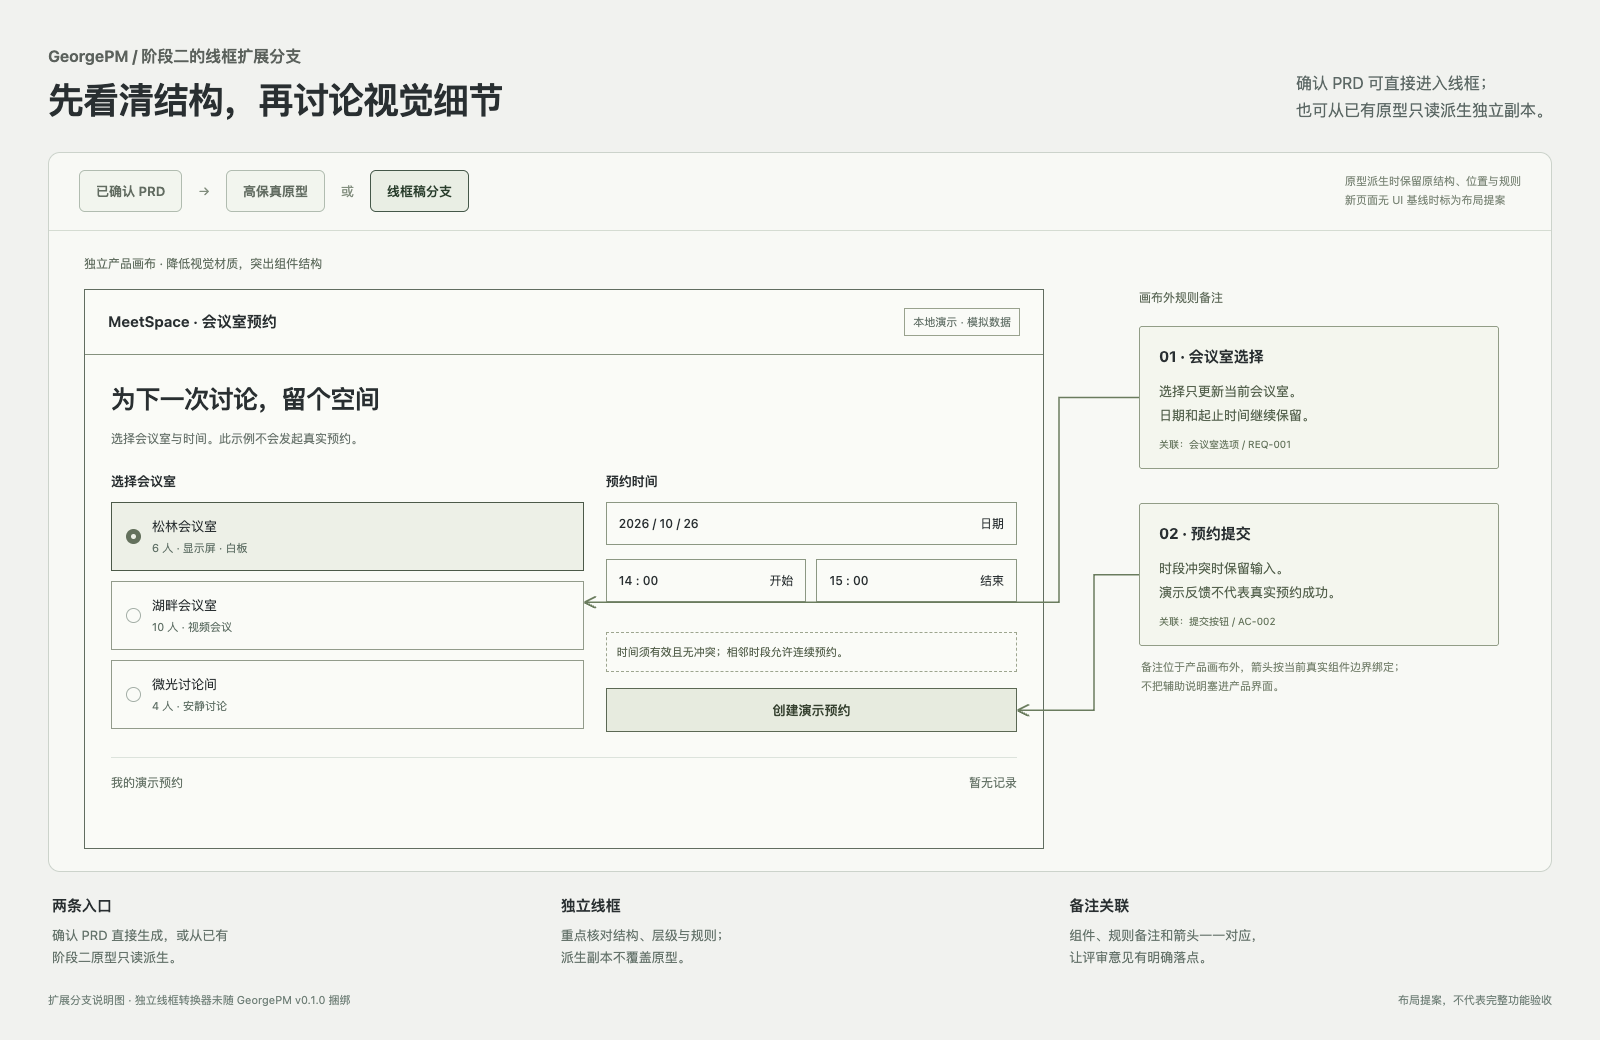
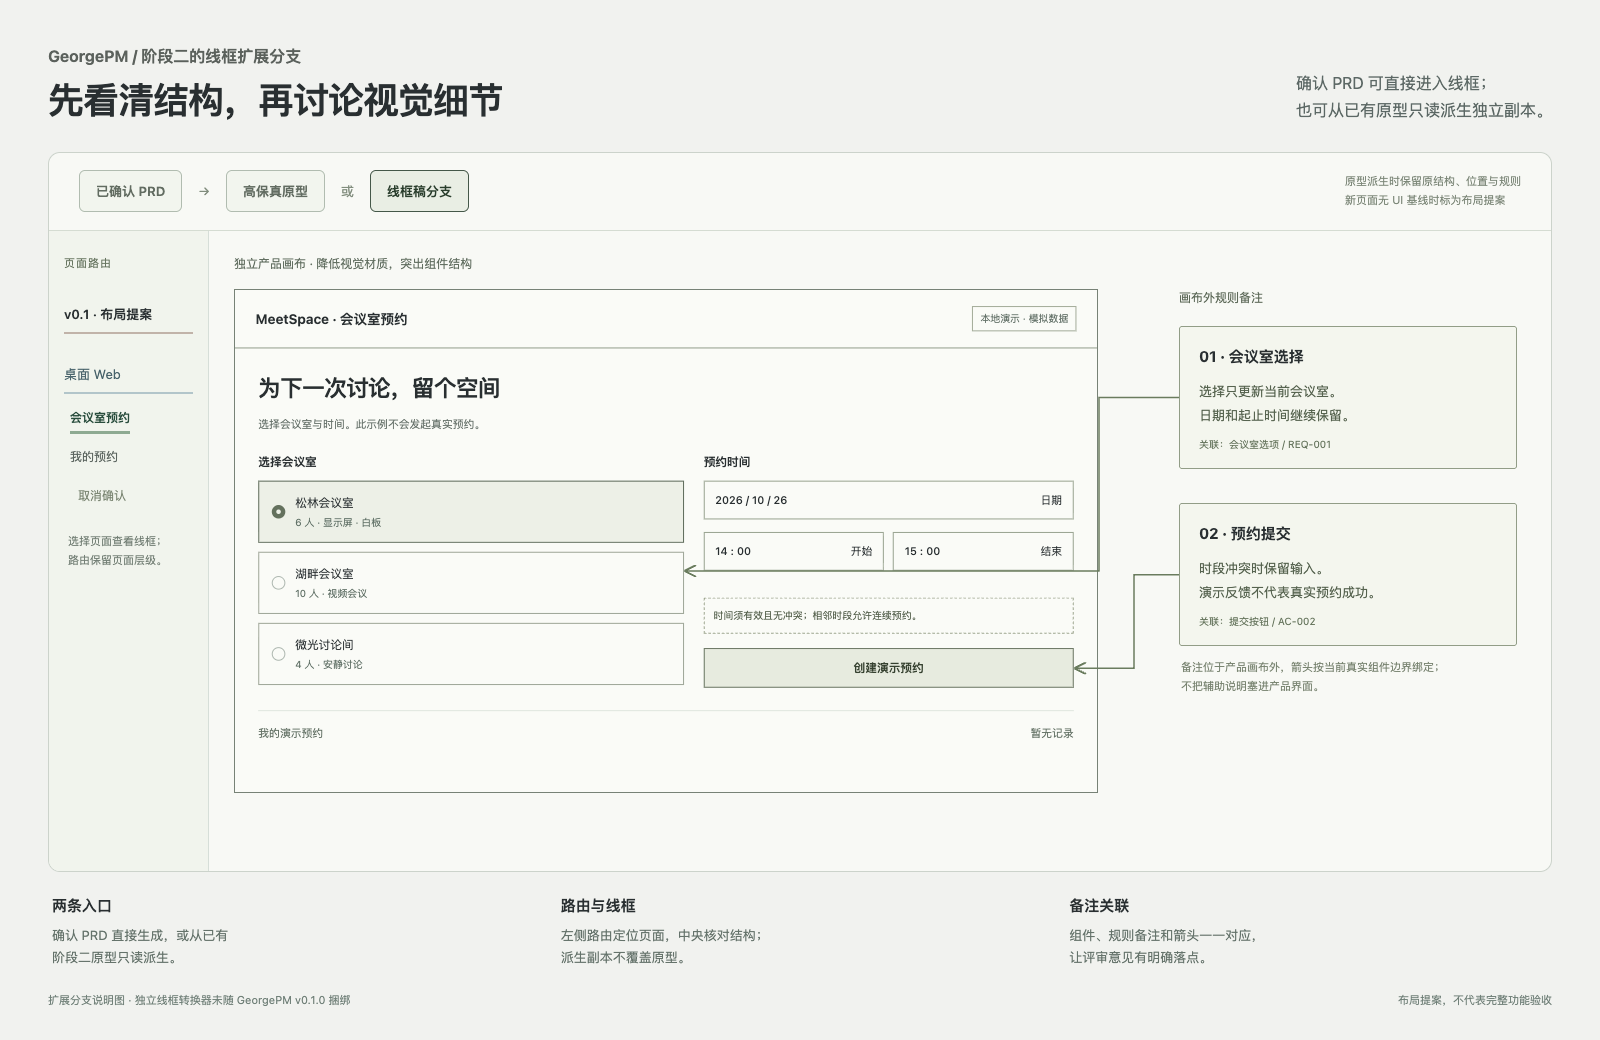
docs: restore page routing in wireframe illustration

diff --git a/docs/visual-examples.md b/docs/visual-examples.md
@@ -15,14 +15,14 @@
 
 ## 线框稿分支
 
-![线框稿分支布局示意](images/stage2-wireframe-branch.png)
+![线框稿分支布局示意：左侧页面路由、中央线框画布、画布外备注与箭头](images/stage2-wireframe-branch.png)
 
 线框分支与高保真分支并列，不是高保真沙盒中的第四种查看模式。常见输入有两种：
 
 1. **确认 PRD → 独立线框**：先核对需求、范围和 UI 来源；没有既有 UI 的新页面标为布局提案。
 2. **已有原型 → 只读派生线框**：保留源视图的结构、位置、尺寸和规则，降低视觉材质，不改写原型。
 
-备注卡位于产品画布外，箭头对应真实组件；备注不是产品页面的一部分。本图是会议室场景的布局提案，不宣称还原某份现有业务 UI。
+左侧保留页面路由，用于切换页面与状态；中央呈现当前线框画布；备注卡位于产品画布外，箭头对应真实组件。路由和备注均属于评审外壳，不是产品页面的一部分。本图是会议室场景的布局提案，不宣称还原某份现有业务 UI。
 
 ## 包能力与图片边界
 
